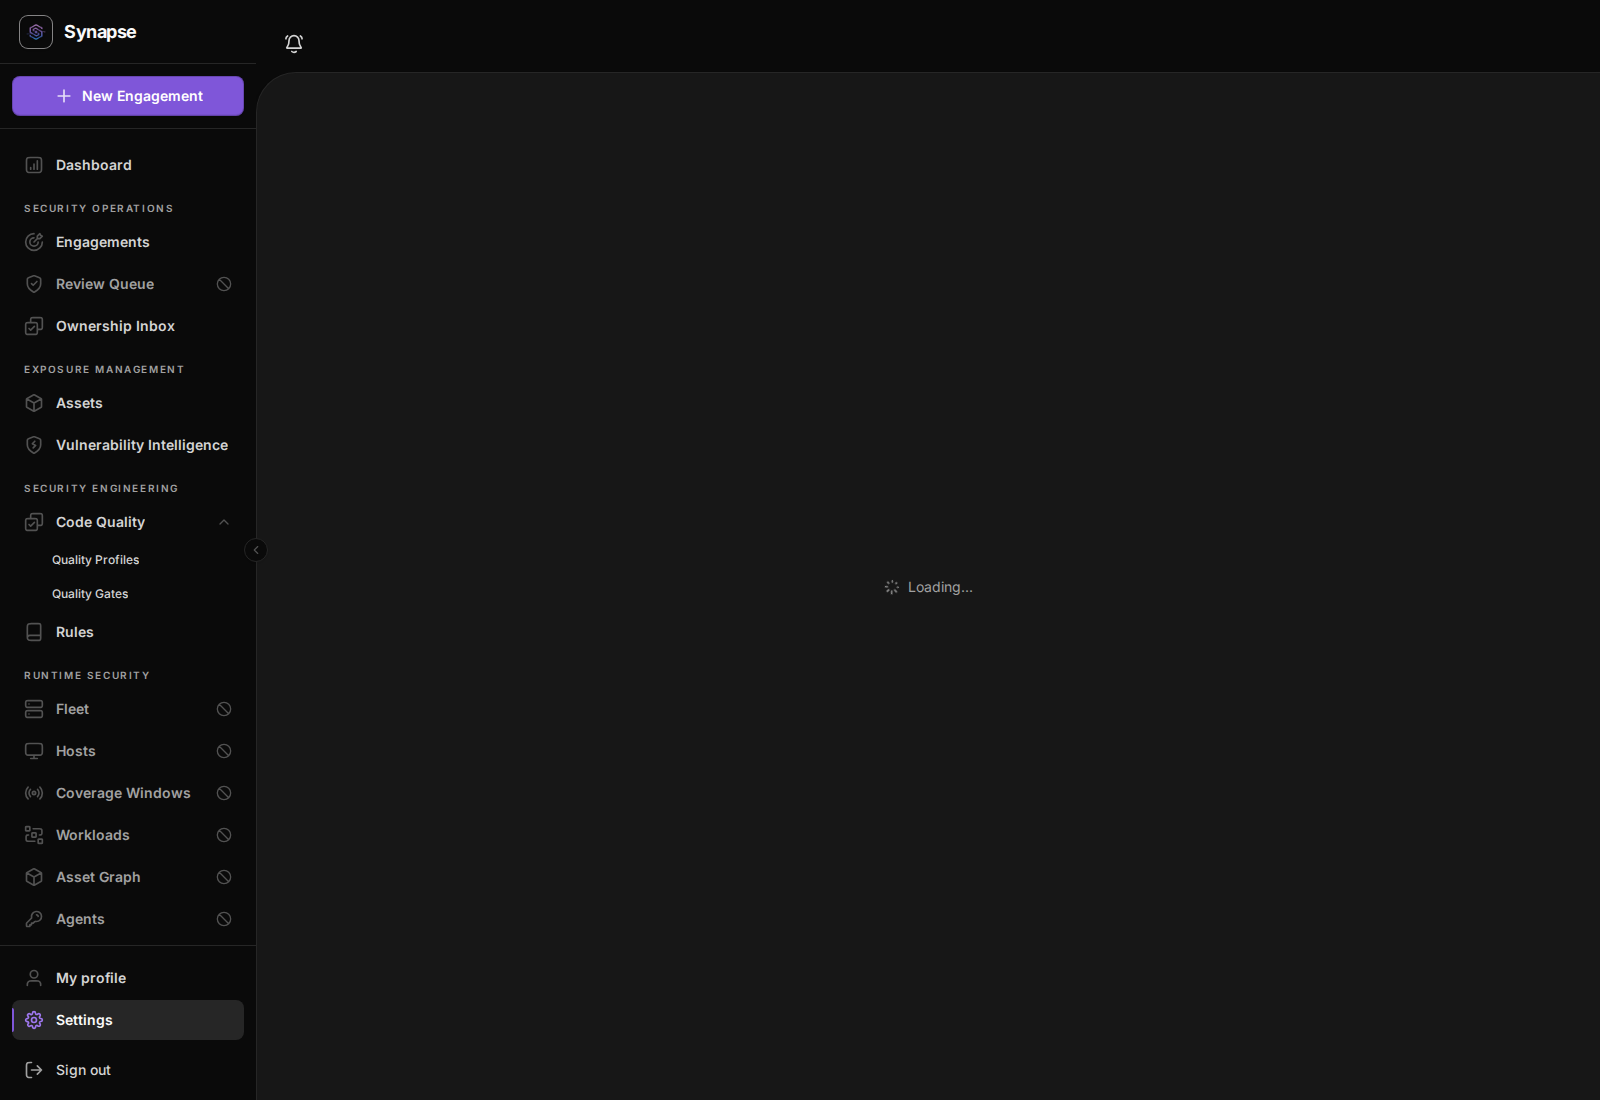
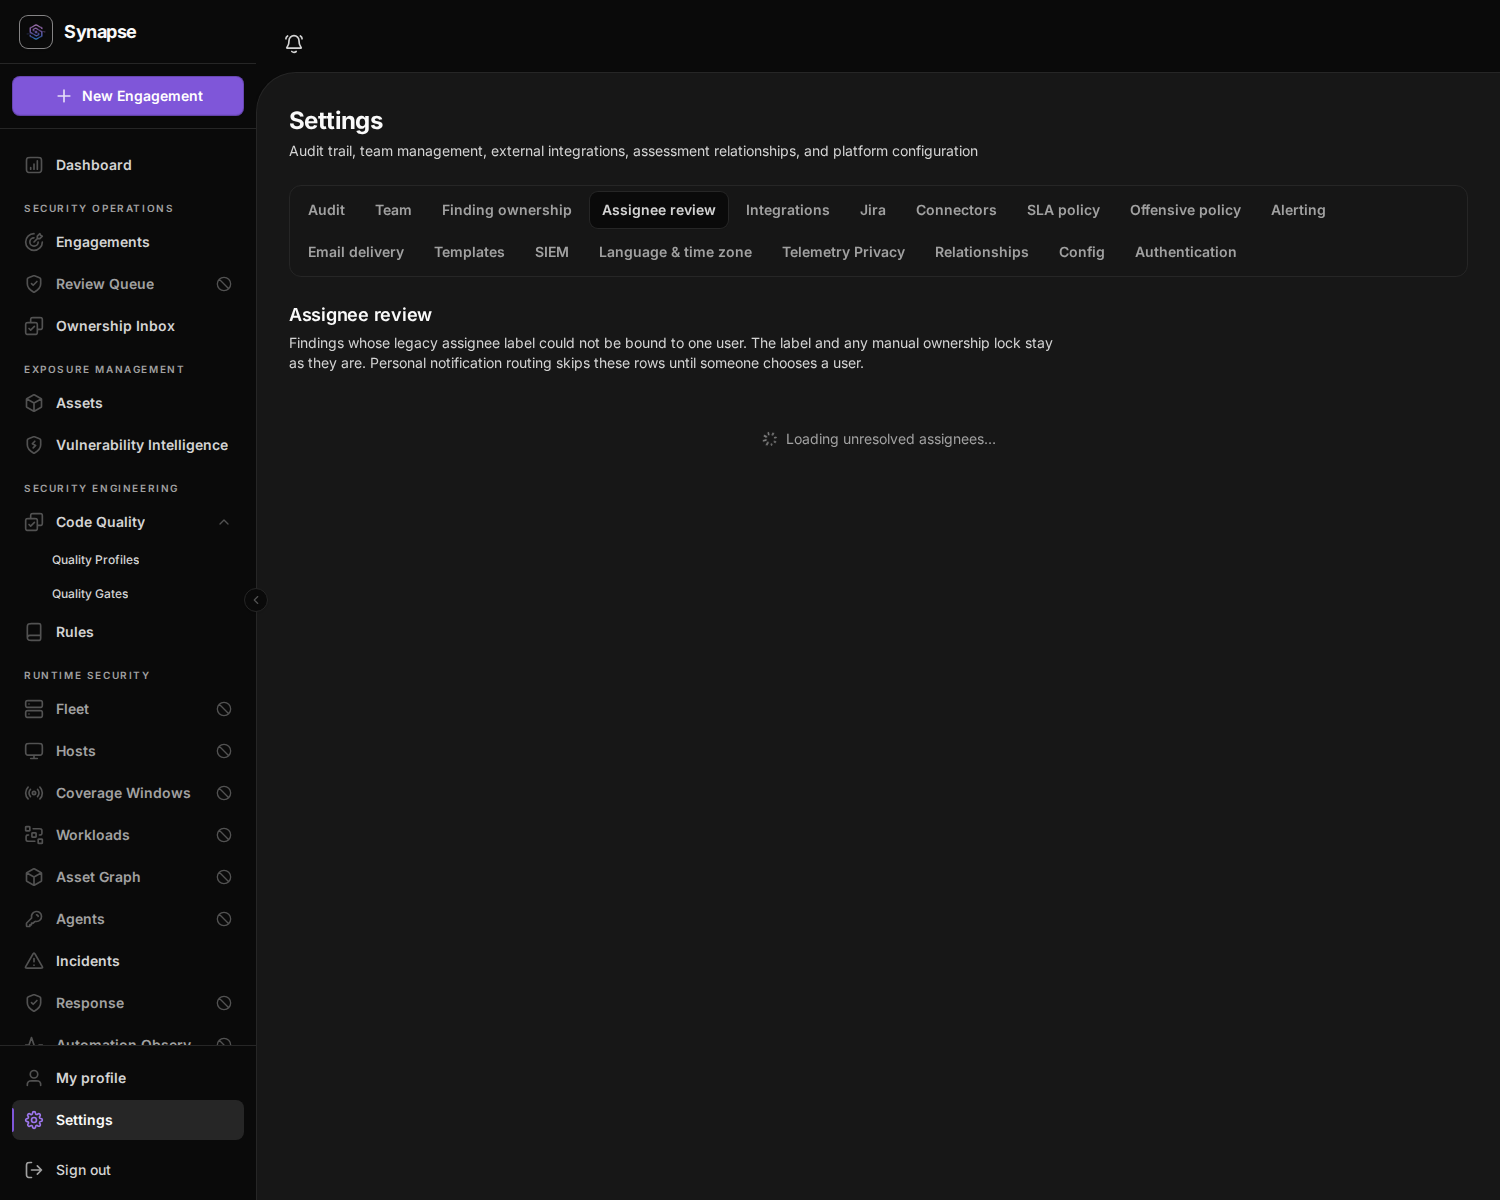
docs(findings): capture the assignee controls and their search states
The queue-loading captures showed the route shell because they were taken
before the Settings page had mounted. They are retaken with the heading and
"Loading unresolved assignees…" both on screen.

The matrix gains the second assignment surface, the Ownership Inbox bulk
action, with the assignee picker open on a team whose memberships are real,
and the picker's own states beside it: the search outstanding, a search that
matches nobody, a search that fails, and the inbox as an operator who cannot
triage. That last one is the permission state for this control: without triage
permission there is no selection column and no bulk card, so there is no
disabled control to photograph, which the text now says.

diff --git a/docs/guide/notification-delivery-acceptance.md b/docs/guide/notification-delivery-acceptance.md
@@ -577,11 +577,38 @@ PostgreSQL. Both findings and both assignments are real rows written through
 | Assignee review when the read fails | [Light](assets/ui/ws4-console/assignee-review-error-light.png) | [Dark](assets/ui/ws4-console/assignee-review-error-dark.png) |
 | Assignee review as a read-only operator | [Light](assets/ui/ws4-console/assignee-review-denied-light.png) | [Dark](assets/ui/ws4-console/assignee-review-denied-dark.png) |
 | Ownership Inbox, where routed findings are taken on | [Light](assets/ui/ws4-console/ownership-inbox-light.png) | [Dark](assets/ui/ws4-console/ownership-inbox-dark.png) |
+| Inbox bulk assignment, with the assignee picker open | [Light](assets/ui/ws4-console/ownership-bulk-assign-light.png) | [Dark](assets/ui/ws4-console/ownership-bulk-assign-dark.png) |
+| The assignee search still outstanding | [Light](assets/ui/ws4-console/ownership-user-picker-loading-light.png) | [Dark](assets/ui/ws4-console/ownership-user-picker-loading-dark.png) |
+| The assignee search matching nobody | [Light](assets/ui/ws4-console/ownership-user-picker-empty-light.png) | [Dark](assets/ui/ws4-console/ownership-user-picker-empty-dark.png) |
+| The assignee search failing | [Light](assets/ui/ws4-console/ownership-user-picker-error-light.png) | [Dark](assets/ui/ws4-console/ownership-user-picker-error-dark.png) |
+| The inbox for an operator who cannot triage | [Light](assets/ui/ws4-console/ownership-inbox-readonly-light.png) | [Dark](assets/ui/ws4-console/ownership-inbox-readonly-dark.png) |
 
 The two finding captures are scrolled to the assignment control, so the picker, the stored
 label and the warning are all in frame. The loading capture holds
-`GET /api/v1/findings/assignee-review` open; the empty capture answers it with no items; the
-failing capture answers 503 and the page reports it.
+`GET /api/v1/findings/assignee-review` open after the Settings route has mounted, so the
+heading and `Loading unresolved assignees…` are both on screen; the empty capture answers
+that read with no items; the failing capture answers 503 and the page reports it.
+
+### The assignee controls themselves
+
+The second assignment surface is the Ownership Inbox: select findings, choose
+`Assign team / person`, pick the destination team, and the same `UserPicker` the finding
+detail uses appears. Its states are captured on that surface, because it is the one where a
+search is driven by hand:
+
+- Results. `GET /api/v1/users/picker?team_id=…` returns the team's eligible members, and the
+  list shows `name (id)`. `Cloud operations` has two memberships; only `Operator (bootstrap
+  admin)` is offered, because the `readonly` member cannot act on a finding. That is the
+  same rule the bridge applies in migration `0182`.
+- Searching. The picker holds its own `Searching users…` line while the read is outstanding.
+- No match. A search for a name nobody has settles on `No eligible users found.`
+- Failure. A 503 on that read raises `user directory unavailable` beside the field.
+- Permission. An operator without triage permission gets no selection column and no bulk
+  card at all, which is the capture in the row above; the control cannot be reached to show
+  a disabled state, so no such capture exists.
+
+The finding-detail copy of the picker is the control in the bound and unbound captures
+above. Its search states are the same component and are not captured twice.
 
 The run exercises both outcomes of the identity bridge, which is the point of the change:
 
